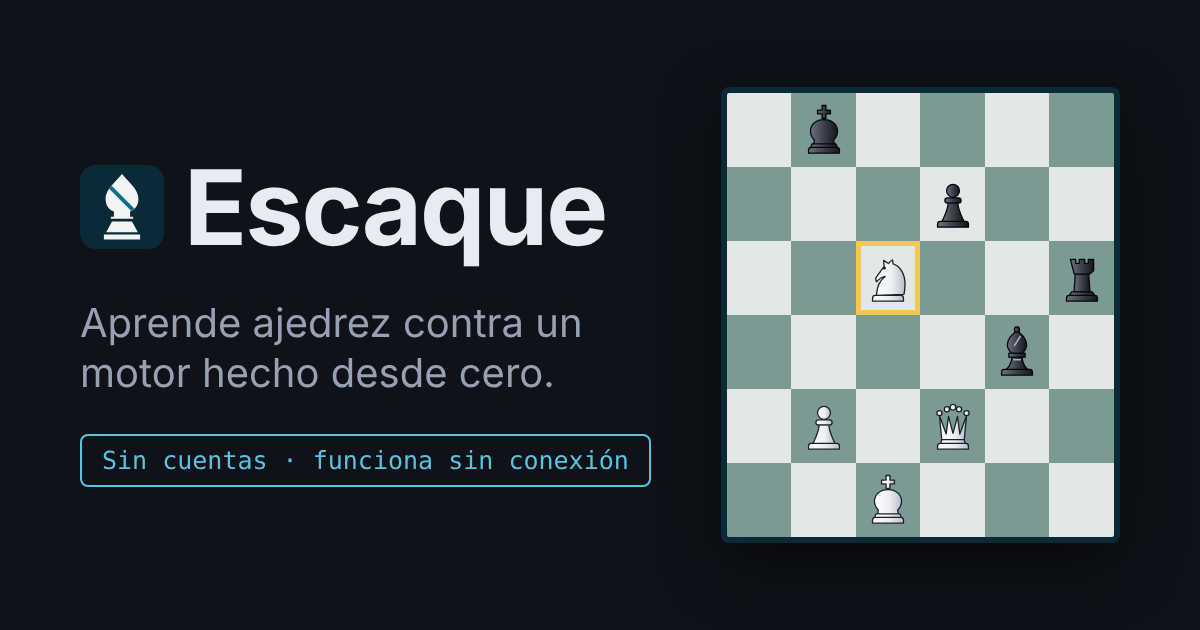
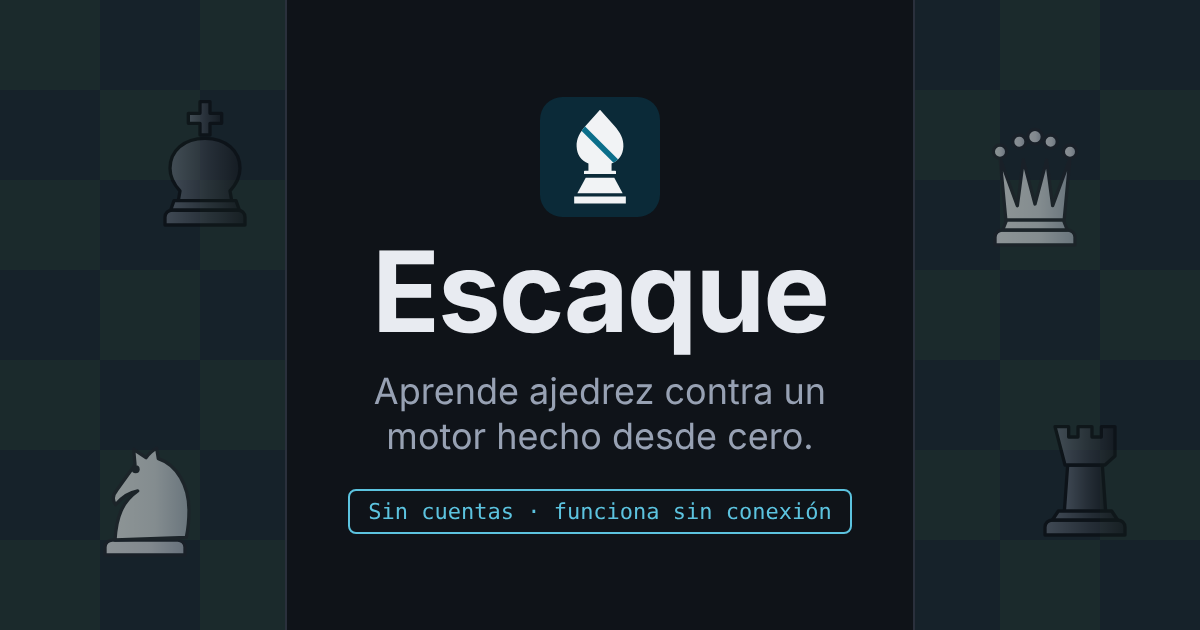
Imagen de vista previa: variante centrada que no se corta en Teams (CAL-393) (#45)
Claude-Session: https://claude.ai/code/session_01Abzy7bXLuZWYMUFxU5tFdc

diff --git a/docs/design/og/og-image.html b/docs/design/og/og-image.html
@@ -1,15 +1,16 @@
 <!doctype html><meta charset=utf-8><style>
 *{box-sizing:border-box;margin:0}
-body{width:1200px;height:630px;background:#0f1218;font-family:"Space Grotesk","IBM Plex Sans",system-ui,sans-serif;color:#e8ebf1;display:flex;align-items:center;padding:0 80px;gap:70px;overflow:hidden}
-.t{flex:1}
-.logo{display:flex;align-items:center;gap:20px}
-.logo img{width:84px;height:84px}
-h1{font-size:104px;letter-spacing:-2px;font-weight:700}
-p{font-size:40px;line-height:1.25;color:#97a1b3;margin-top:28px;max-width:520px}
-.pill{display:inline-block;margin-top:36px;border:2px solid #5cc3df;color:#5cc3df;border-radius:8px;padding:10px 20px;font-size:25px;white-space:nowrap;font-family:"IBM Plex Mono",monospace}
-.b{width:456px;height:456px;display:grid;grid-template-columns:repeat(6,1fr);border:6px solid #0b2a38;border-radius:8px;overflow:hidden;box-shadow:0 20px 60px #0008}
-.s{display:flex;align-items:center;justify-content:center} .s img{width:90%}
-.hl{outline:5px solid #f2c94c;outline-offset:-5px}
-</style><div class=t><div class=logo><img src="../design-system/assets/Icono/icono.svg"><h1>Escaque</h1></div>
-<p>Aprende ajedrez contra un motor hecho desde cero.</p><span class=pill>Sin cuentas · funciona sin conexión</span></div>
-<div class=b><div class="s" style="background:#e3e8e6"></div><div class="s" style="background:#7c9a94"><img src="../design-system/assets/Piezas/rey-negra.svg"></div><div class="s" style="background:#e3e8e6"></div><div class="s" style="background:#7c9a94"></div><div class="s" style="background:#e3e8e6"></div><div class="s" style="background:#7c9a94"></div><div class="s" style="background:#7c9a94"></div><div class="s" style="background:#e3e8e6"></div><div class="s" style="background:#7c9a94"></div><div class="s" style="background:#e3e8e6"><img src="../design-system/assets/Piezas/peon-negra.svg"></div><div class="s" style="background:#7c9a94"></div><div class="s" style="background:#e3e8e6"></div><div class="s" style="background:#e3e8e6"></div><div class="s" style="background:#7c9a94"></div><div class="s hl" style="background:#e3e8e6"><img src="../design-system/assets/Piezas/caballo-blanca.svg"></div><div class="s" style="background:#7c9a94"></div><div class="s" style="background:#e3e8e6"></div><div class="s" style="background:#7c9a94"><img src="../design-system/assets/Piezas/torre-negra.svg"></div><div class="s" style="background:#7c9a94"></div><div class="s" style="background:#e3e8e6"></div><div class="s" style="background:#7c9a94"></div><div class="s" style="background:#e3e8e6"></div><div class="s" style="background:#7c9a94"><img src="../design-system/assets/Piezas/alfil-negra.svg"></div><div class="s" style="background:#e3e8e6"></div><div class="s" style="background:#e3e8e6"></div><div class="s" style="background:#7c9a94"><img src="../design-system/assets/Piezas/peon-blanca.svg"></div><div class="s" style="background:#e3e8e6"></div><div class="s" style="background:#7c9a94"><img src="../design-system/assets/Piezas/dama-blanca.svg"></div><div class="s" style="background:#e3e8e6"></div><div class="s" style="background:#7c9a94"></div><div class="s" style="background:#7c9a94"></div><div class="s" style="background:#e3e8e6"></div><div class="s" style="background:#7c9a94"><img src="../design-system/assets/Piezas/rey-blanca.svg"></div><div class="s" style="background:#e3e8e6"></div><div class="s" style="background:#7c9a94"></div><div class="s" style="background:#e3e8e6"></div></div>
+body{width:1200px;height:630px;background:#0f1218;font-family:"Space Grotesk","IBM Plex Sans",system-ui,sans-serif;color:#e8ebf1;overflow:hidden;position:relative}
+.bg{position:absolute;inset:0;display:grid;grid-template-columns:repeat(12,100px);grid-template-rows:repeat(7,90px)}
+.c{position:absolute;left:285px;top:0;width:630px;height:630px;display:flex;flex-direction:column;align-items:center;justify-content:center;text-align:center;background:#0f1218ee;border-left:2px solid #2a303c;border-right:2px solid #2a303c;padding:0 40px}
+.c img.i{width:120px;height:120px}
+h1{font-size:112px;letter-spacing:-2px;font-weight:700;margin-top:18px;line-height:1}
+p{font-size:36px;line-height:1.25;color:#97a1b3;margin-top:22px}
+.pill{margin-top:30px;border:2px solid #5cc3df;color:#5cc3df;border-radius:8px;padding:8px 18px;font-size:22px;white-space:nowrap;font-family:"IBM Plex Mono",monospace}
+.p{position:absolute;width:150px}
+</style><div class=bg><div style="background:#1b2a2c"></div><div style="background:#16222a"></div><div style="background:#1b2a2c"></div><div style="background:#16222a"></div><div style="background:#1b2a2c"></div><div style="background:#16222a"></div><div style="background:#1b2a2c"></div><div style="background:#16222a"></div><div style="background:#1b2a2c"></div><div style="background:#16222a"></div><div style="background:#1b2a2c"></div><div style="background:#16222a"></div><div style="background:#16222a"></div><div style="background:#1b2a2c"></div><div style="background:#16222a"></div><div style="background:#1b2a2c"></div><div style="background:#16222a"></div><div style="background:#1b2a2c"></div><div style="background:#16222a"></div><div style="background:#1b2a2c"></div><div style="background:#16222a"></div><div style="background:#1b2a2c"></div><div style="background:#16222a"></div><div style="background:#1b2a2c"></div><div style="background:#1b2a2c"></div><div style="background:#16222a"></div><div style="background:#1b2a2c"></div><div style="background:#16222a"></div><div style="background:#1b2a2c"></div><div style="background:#16222a"></div><div style="background:#1b2a2c"></div><div style="background:#16222a"></div><div style="background:#1b2a2c"></div><div style="background:#16222a"></div><div style="background:#1b2a2c"></div><div style="background:#16222a"></div><div style="background:#16222a"></div><div style="background:#1b2a2c"></div><div style="background:#16222a"></div><div style="background:#1b2a2c"></div><div style="background:#16222a"></div><div style="background:#1b2a2c"></div><div style="background:#16222a"></div><div style="background:#1b2a2c"></div><div style="background:#16222a"></div><div style="background:#1b2a2c"></div><div style="background:#16222a"></div><div style="background:#1b2a2c"></div><div style="background:#1b2a2c"></div><div style="background:#16222a"></div><div style="background:#1b2a2c"></div><div style="background:#16222a"></div><div style="background:#1b2a2c"></div><div style="background:#16222a"></div><div style="background:#1b2a2c"></div><div style="background:#16222a"></div><div style="background:#1b2a2c"></div><div style="background:#16222a"></div><div style="background:#1b2a2c"></div><div style="background:#16222a"></div><div style="background:#16222a"></div><div style="background:#1b2a2c"></div><div style="background:#16222a"></div><div style="background:#1b2a2c"></div><div style="background:#16222a"></div><div style="background:#1b2a2c"></div><div style="background:#16222a"></div><div style="background:#1b2a2c"></div><div style="background:#16222a"></div><div style="background:#1b2a2c"></div><div style="background:#16222a"></div><div style="background:#1b2a2c"></div><div style="background:#1b2a2c"></div><div style="background:#16222a"></div><div style="background:#1b2a2c"></div><div style="background:#16222a"></div><div style="background:#1b2a2c"></div><div style="background:#16222a"></div><div style="background:#1b2a2c"></div><div style="background:#16222a"></div><div style="background:#1b2a2c"></div><div style="background:#16222a"></div><div style="background:#1b2a2c"></div><div style="background:#16222a"></div></div>
+<img class=p src="../design-system/assets/Piezas/caballo-blanca.svg" style="left:70px;top:420px;opacity:.5">
+<img class=p src="../design-system/assets/Piezas/rey-negra.svg" style="left:130px;top:90px;opacity:.5">
+<img class=p src="../design-system/assets/Piezas/dama-blanca.svg" style="left:960px;top:110px;opacity:.5">
+<img class=p src="../design-system/assets/Piezas/torre-negra.svg" style="left:1010px;top:400px;opacity:.5">
+<div class=c><img class=i src="../design-system/assets/Icono/icono.svg"><h1>Escaque</h1><p>Aprende ajedrez contra un motor hecho desde cero.</p><span class=pill>Sin cuentas · funciona sin conexión</span></div>

diff --git a/docs/design/lienzo/OgImageCentrada.dc.html b/docs/design/lienzo/OgImageCentrada.dc.html
@@ -1,0 +1,23 @@
+<!doctype html>
+<html lang="es">
+<head>
+<meta charset="utf-8">
+<title>Imagen de vista previa centrada</title>
+<script src="./support.js"></script>
+</head>
+<body>
+<x-dc>
+<helmet>
+<style>
+body{margin:0}
+</style>
+</helmet>
+<img src="/_blob/4ec2d3f87c342d7067f8add88391b4c5" width="1200" height="630" alt="Escaque: icono, nombre y lema centrados sobre un fondo de tablero con cuatro piezas" style="display: block; width: 1200px; height: 630px">
+</x-dc>
+<script type="text/x-dc" data-dc-script data-props='{"$preview":{"width":1200,"height":630}}'>
+class Component extends DCLogic {
+  renderVals() { return {}; }
+}
+</script>
+</body>
+</html>

diff --git a/docs/design/README.md b/docs/design/README.md
@@ -25,4 +25,4 @@ Los enlaces son privados de la cuenta de Calvario TechLabs.
 
 ## Imagen de vista previa (og:image)
 
-`og/og-image.png` (1200x630) y `og/og-image.html` (su fuente, con las piezas y el icono de `design-system/assets`). Aprobada por Sergio el 2026-11-23 (CAL-393) como propuesta en el hilo del proyecto; está en el lienzo de Claude Design (`lienzo/OgImage.dc.html`, página Escritorio, versión 1795454832-8e29, exportado el 2026-11-23; la imagen del lienzo es una subida, no un fichero de este repositorio). Se publica como `public/og-image.png` y las etiquetas `og:`/`twitter:` están en `index.html`.
+`og/og-image.png` (1200x630) y `og/og-image.html` (su fuente, con las piezas y el icono de `design-system/assets`). Es la variante centrada, aprobada por Sergio el 2026-11-23 (CAL-393): el contenido cabe en el cuadrado central de 630 px que Teams enseña al recortar la miniatura. Está en el lienzo de Claude Design (`lienzo/OgImageCentrada.dc.html`, página Escritorio, versión 1795455792-ed90; la imagen del lienzo es una subida, no un fichero de este repositorio). La primera versión (con el tablero a la derecha, `lienzo/OgImage.dc.html`) queda en el lienzo como referencia. Se publica como `public/og-image.png` y las etiquetas `og:`/`twitter:` están en `index.html`.
